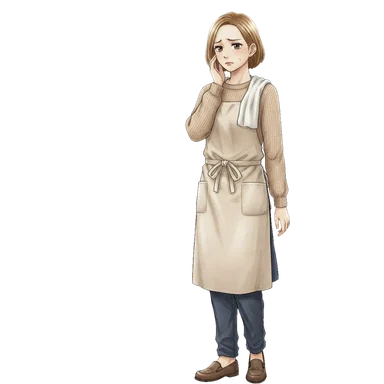
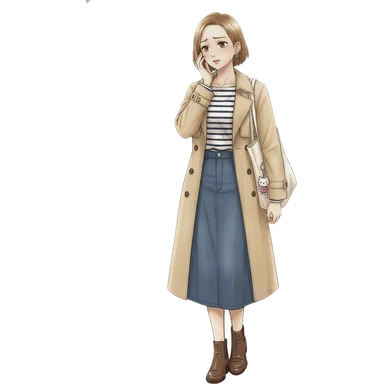
妻を性格に合わせて描き直し（トレンチコートの明るくニヒルな人、塩対応の顔の差分）
Claude-Session: https://claude.ai/code/session_019xnD9zf1824211ZEpgvXov

Changed region(s): [[0.4375, 0.0312, 0.7812, 1.0]]

diff --git a/habit-check/public/theater.js b/habit-check/public/theater.js
@@ -36,6 +36,7 @@ const CAST = {
 // 戦いの場面（WARNING のあと）で、構えの絵に切り替わる人
 const FIGHTERS = new Set(["さとし", "ムキ", "フミ", "ゼニ", "シロガネ"]);
 const BATTLE_STEPS = 14;
+const SALTY = /^(は？|はあ？|ふーん|へえ|なにそれ|で？|知らない|いや|ちょっと|……)/;
 const HERO_KEYS = { みならい: "hero_1", かけだし: "hero_2", いちにんまえ: "hero_3", ベテラン: "hero_4", たつじん: "hero_5", でんせつ: "hero_6" };
 const EP1_HERO = { 0: "みならい", 1: "みならい", 2: "かけだし", 3: "かけだし", 4: "いちにんまえ", 5: "ベテラン", 6: "ベテラン", 7: "たつじん", 8: "たつじん", 9: "でんせつ" };
 const PET_HEIGHT = { egg: 0.26, baby: 0.28, child: 0.36, adult: 0.5 };
@@ -391,6 +392,8 @@ export function openTheater({ chapter, blocks, pet, hero, onRead, onUnread }) {
     }
     // せりふ：立ち絵の上に吹き出し
     if (battleLeft > 0) battleLeft--;
+    // 妻は、変なことを言われたときの短い返し（「は？」「なにそれ」など）で塩対応の顔
+    if (s.who === "妻" && !s.emo && SALTY.test(s.text)) s.emo = "angry";
     const actor = bringOn(s.who, { emo: s.emo || (battleLeft > 0 && FIGHTERS.has(s.who) ? "battle" : null) });
     if (!actor) for (const x of onStage) x.el.classList.remove("speaking");
     const name = displayName(s.who);

diff --git a/habit-check/public/art-index.js b/habit-check/public/art-index.js
@@ -63,4 +63,4 @@ export const FAMILY_BY_COLOR = {
   "#e9e4f2": "moyamoya"
 };
 // 登場人物の表情・構えの差分（img/cast2/<名前>_<差分>.webp）
-export const CAST_VARIANTS = {"hero_6":["smile","angry","sad","surprised","battle"],"hero_1":["smile","surprised"],"hero_2":[],"hero_3":[],"hero_4":["battle"],"hero_5":["battle"],"rumi":["smile","angry","sad","surprised"],"muki":["smile","angry","sad","surprised","battle"],"fumi":["smile","angry","sad","surprised","battle"],"zeni":["smile","angry","sad","surprised","battle"],"shirogane":["smile","angry","sad","surprised","battle"],"rensa":["smile","angry","sad","surprised"],"obaasan":["smile","sad"],"kazoe":["smile","sad"],"gou":["angry","sad"],"tsuma":["smile","sad"],"chiisana":["smile"],"tokijii":[]};
+export const CAST_VARIANTS = {"hero_6":["smile","angry","sad","surprised","battle"],"hero_1":["smile","surprised"],"hero_2":[],"hero_3":[],"hero_4":["battle"],"hero_5":["battle"],"rumi":["smile","angry","sad","surprised"],"muki":["smile","angry","sad","surprised","battle"],"fumi":["smile","angry","sad","surprised","battle"],"zeni":["smile","angry","sad","surprised","battle"],"shirogane":["smile","angry","sad","surprised","battle"],"rensa":["smile","angry","sad","surprised"],"obaasan":["smile","sad"],"kazoe":["smile","sad"],"gou":["angry","sad"],"tsuma":["smile","angry","sad","surprised"],"chiisana":["smile"],"tokijii":[]};

diff --git a/habit-check/public/sw.js b/habit-check/public/sw.js
@@ -1,5 +1,5 @@
 // 画面ファイルだけをキャッシュする（/api は常にネットワーク）
-const CACHE = "habit-check-v20";
+const CACHE = "habit-check-v21";
 const SHELL = ["./", "index.html", "app.js", "aibou.js", "aibou-sprites.js", "art-index.js", "theater.js", "theater-gl.js", "theater-script.js", "theater-speakers.js", "theater-stage.js", "style.css", "manifest.webmanifest", "icons/icon-192.png", "img/walnut.jpg", "img/oak.jpg"];
 
 self.addEventListener("install", (e) => {
